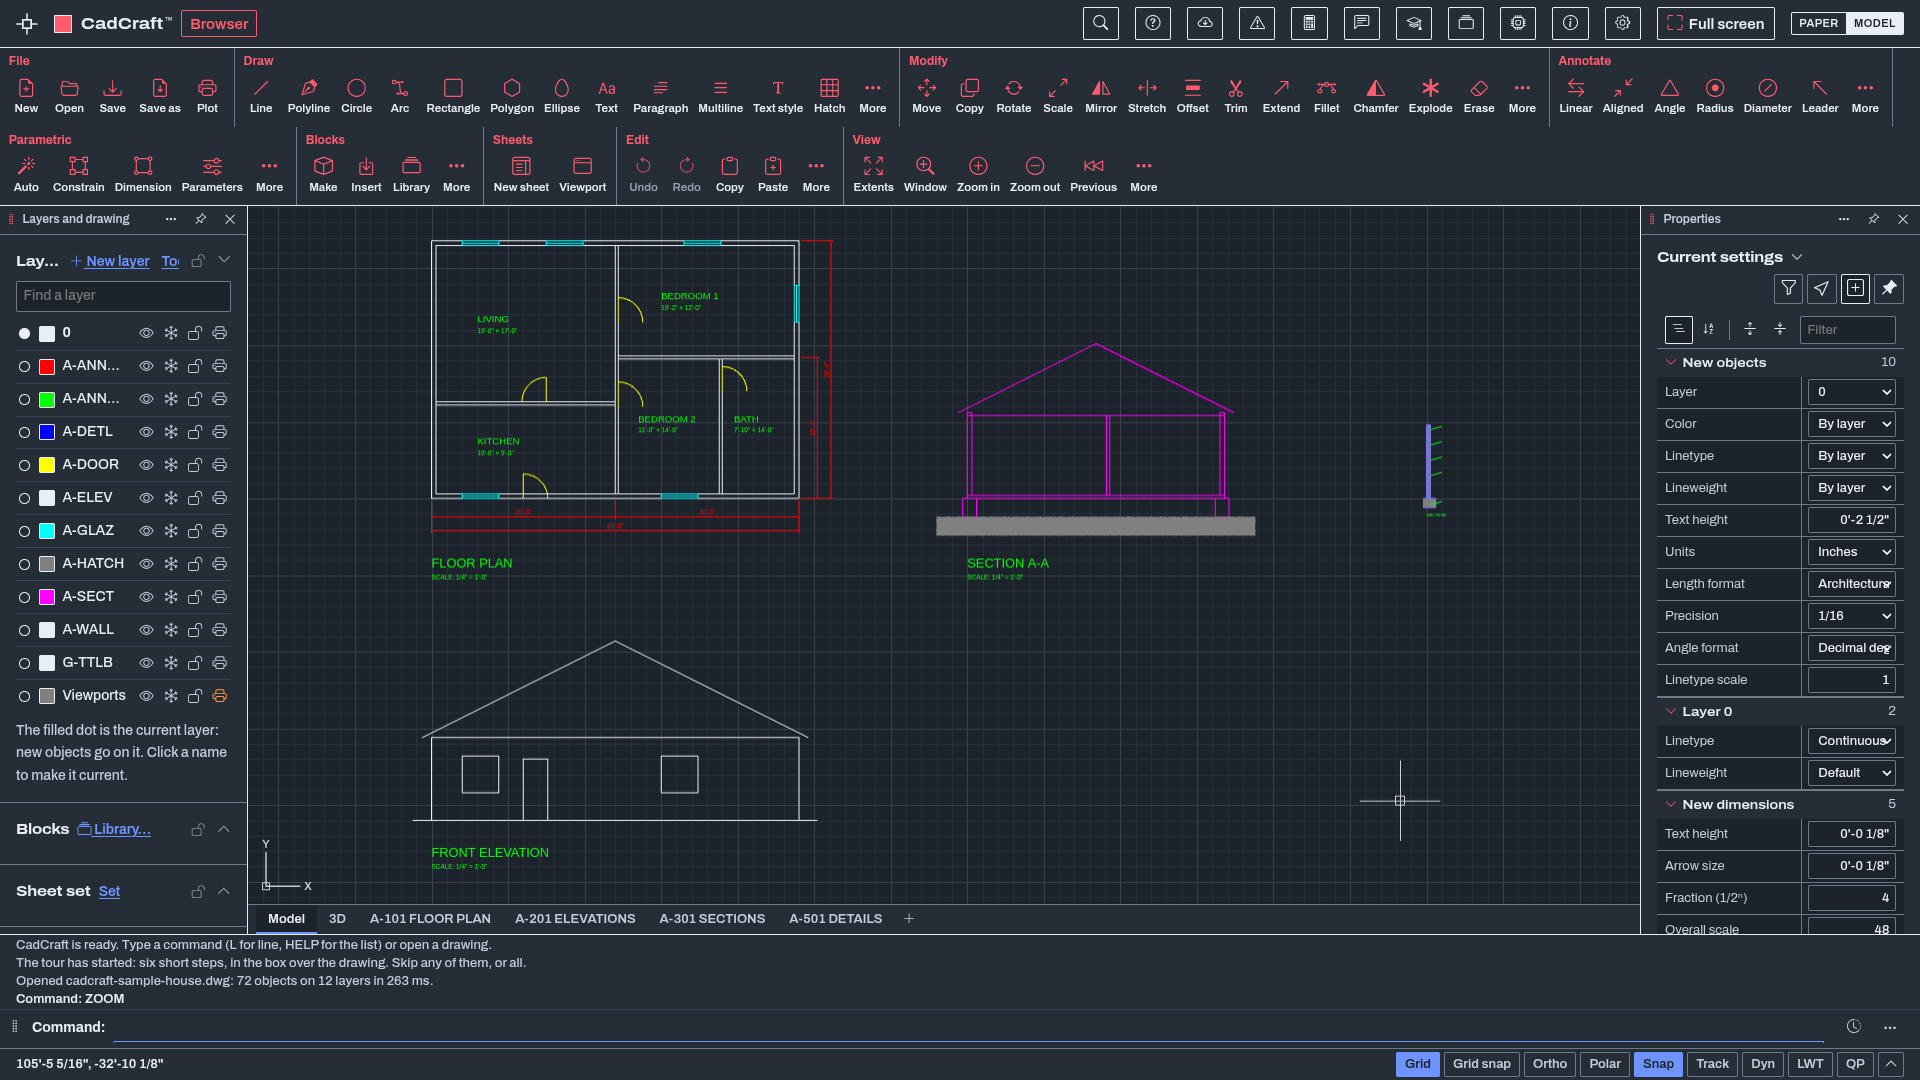
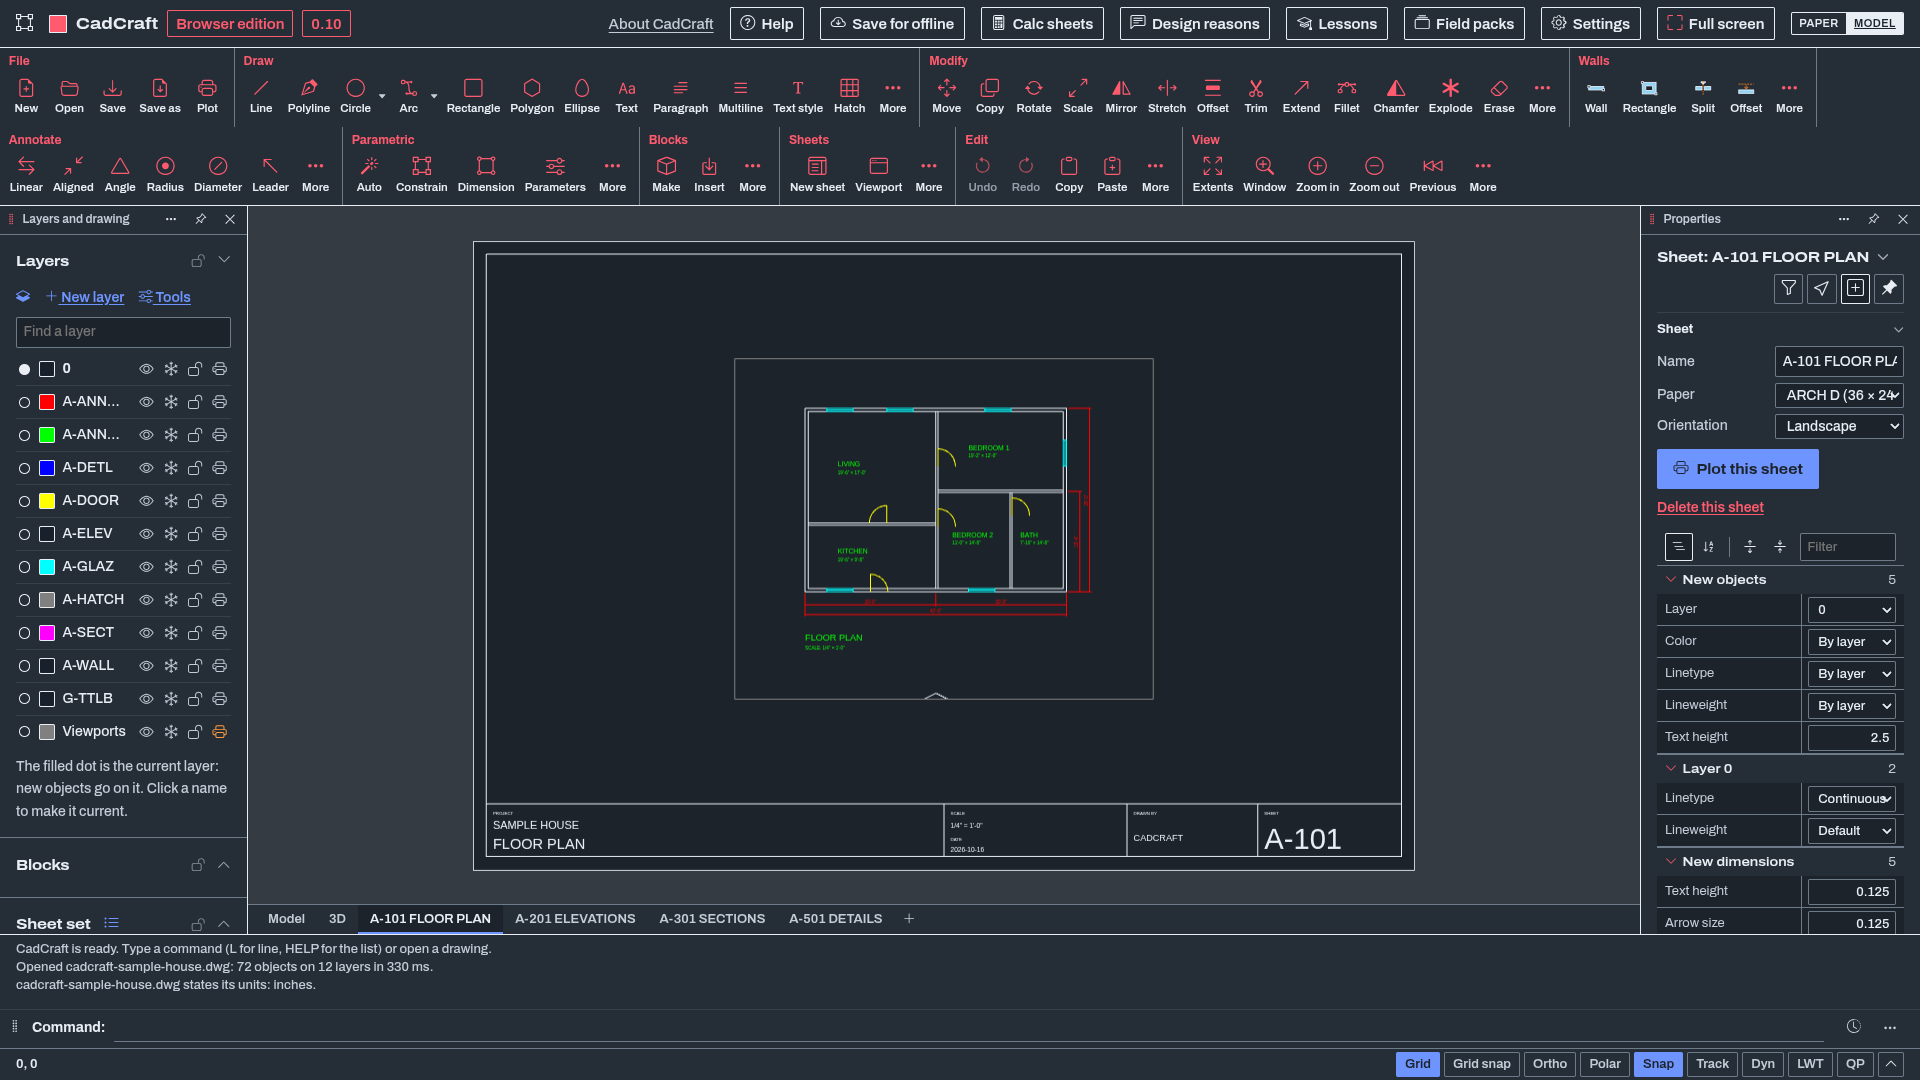
README: 0.10 screenshots (the released 0.10 browser edition, dark theme)

diff --git a/README.md b/README.md
@@ -6,9 +6,9 @@ The drafting table you already know how to use.
 
 **[Website](https://getcadcraft.com/apps/cadcraft) | [Use it in your browser](https://getcadcraft.com/use/cadcraft) | [Download CadCraft Studio](https://getcadcraft.com/download#studio) | [Help and tutorials](https://getcadcraft.com/tutorials/cadcraft) | [News](https://getcadcraft.com/news) | [Suggest a feature](https://getcadcraft.com/suggest)**
 
-[![CadCraft 0.9](screenshots/paper.png)](https://getcadcraft.com/use/cadcraft)
+[![CadCraft 0.10](screenshots/paper.png)](https://getcadcraft.com/use/cadcraft)
 
-<sub>CadCraft 0.9 in the browser, dark theme. [A second view](screenshots/model.png).</sub>
+<sub>CadCraft 0.10 in the browser, dark theme. [A second view](screenshots/model.png).</sub>
 
 CadCraft is the 2D drafting & documentation app in the [CadCraft](https://getcadcraft.com) family: Command-line drafting with layers, blocks, dimensions and layouts that plot. Opens and saves DWG and DXF.
 
